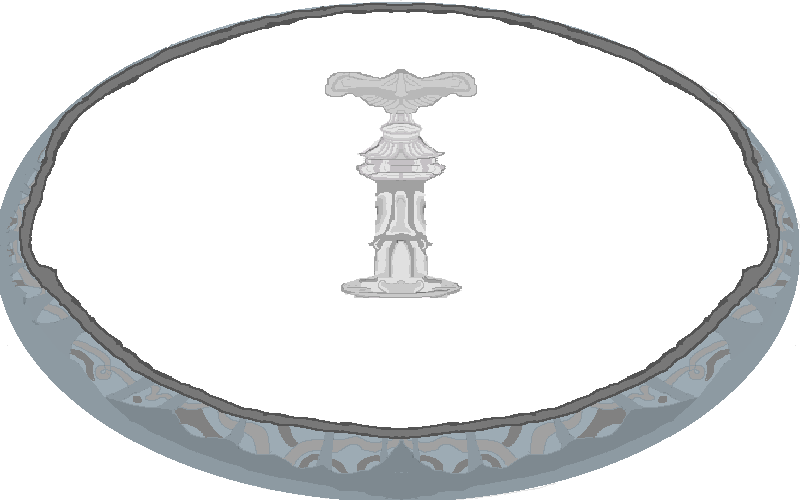
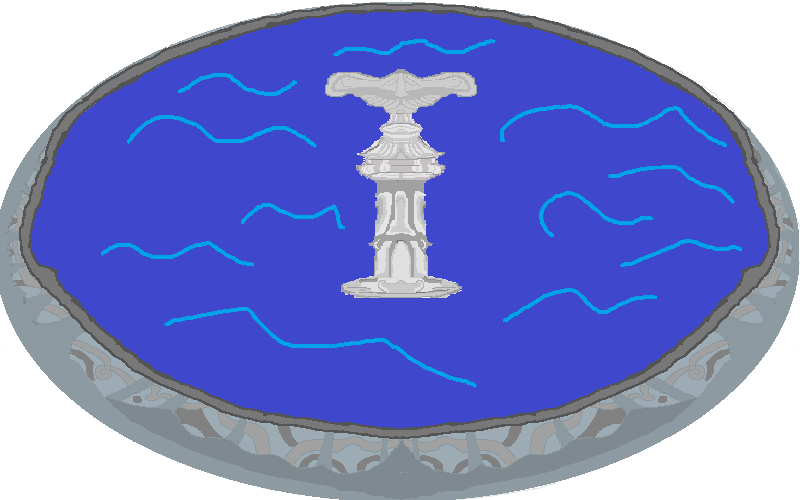
Přidána hackovací minihra a textura kašny na  náměstí

diff --git a/source/mesta/mapa/mista_inicializace.py b/source/mesta/mapa/mista_inicializace.py
@@ -55,6 +55,9 @@ def mesto1Init(okno, velikost_okna, global_data):
                "stanice.png",#23
                "namesti.png",#24
                "bankomat.png",#25
+               "Skola_Simon.png",#26
+               "Skola_Kubik.png",#27
+               "kasna.png",#28
 
                ]
 
@@ -62,6 +65,8 @@ def mesto1Init(okno, velikost_okna, global_data):
 #NAMESTI
     scaled_banka = pygame.transform.scale(textury[6], (380, 320))
     scaled_stanice = pygame.transform.scale(textury[23],(200,320))
+    scaled_kasna = pygame.transform.scale(textury[28],(330,206))
+    kasna_rect = scaled_kasna.get_rect()
     #textury_itemy = [pygame.image.load(f"textury\\itemy\\{textura}").convert() for textura in textury_itemy]
     scaled_namesti = pygame.transform.scale(textury[24],(2005,1725))
     sirka_namesti = scaled_namesti.get_width()
@@ -72,7 +77,7 @@ def mesto1Init(okno, velikost_okna, global_data):
     budovy = []
     #prvni horní řada domů z leva (0,0) - prvni dum v pořadí
     budovy.append(Budova(okno, 0, 0, 0, 0, textury[1]))
-    budovy.append(Budova(okno, 200, 0, 200, 320, scaled_stanice))#stanice
+    budovy.append(Budova(okno, 200, 0, 200, 320, scaled_stanice))#policejní stanice
     budovy.append(Budova(okno, 405, 0, textury_rect[22].width, textury_rect[22].height, textury[22]))#radnice
     #budovy.append(Budova(okno, 2*textury_rect[1].width, 0, textury_rect[3].width, textury_rect[3].height, textury[3]))
     #budovy.append(Budova(okno, 3*textury_rect[1].width, 0, textury_rect[4].width, textury_rect[4].height, textury[4]))
@@ -81,8 +86,8 @@ def mesto1Init(okno, velikost_okna, global_data):
     #####budovy.append(Budova(okno, 4*textury_rect[1].width, 0, textury_rect[4].width, textury_rect[4].height, textury[2]))
     #####budovy.append(Budova(okno, 5*textury_rect[1].width, 0, textury_rect[4].width, textury_rect[4].height, textury[3]))
     #druha horní řada domů po mezeře (1200, 0) - prvni dum v pořadí
-    budovy.append(Budova(okno, 6*textury_rect[1].width, 0, textury_rect[1].width, textury_rect[1].height, textury[1]))
-    budovy.append(Budova(okno, 7*textury_rect[1].width, 0, textury_rect[2].width, textury_rect[2].height, textury[2]))
+    budovy.append(Budova(okno, 6*textury_rect[1].width, 0, textury_rect[26].width, textury_rect[26].height, textury[26]))
+    #budovy.append(Budova(okno, 7*textury_rect[1].width, 0, textury_rect[2].width, textury_rect[2].height, textury[2]))
     budovy.append(Budova(okno, 8*textury_rect[1].width, 0, textury_rect[3].width, textury_rect[3].height, textury[3]))
     budovy.append(Budova(okno, 9*textury_rect[1].width, 0, textury_rect[4].width, textury_rect[4].height, textury[4]))
     #první dolní řada domů z leva (200, 1360) - prvni dum v pořadí
@@ -115,14 +120,16 @@ def mesto1Init(okno, velikost_okna, global_data):
     #silnice 
     #MODEL
     #budovy.append(Budova(okno, 0, 0, textury_rect[24].width, textury_rect[24].height, textury[24]))
-
+#BANKOMAT
     budovy.append(Budova(okno, 1730,237 , textury_rect[25].width, textury_rect[25].height, textury[25]))#bankomat
+    interakcni_zony.append(InterakcniZona(1730,237 + textury_rect[25].height,textury_rect[25].width, textury_rect[25].height,ddos, argumenty = [global_data]))
 #NAMESTI    
-    interakcni_zony.append(InterakcniZona(0,0,sirka_namesti, vyska_namesti, nic, textura = scaled_namesti))
+    interakcni_zony.append(InterakcniZona(0,-40,sirka_namesti, vyska_namesti, nic, textura = scaled_namesti))
 
     interakcni_zony.append(InterakcniZona(0,1640, 1920,80, novy_areal, argumenty=[global_data, 2,(1055, 0)])) # #1. lokace - prechod z mesta na parkoviste	
 
-
+#KAšNA
+    budovy.append(Budova(okno, 850,655,kasna_rect.width, kasna_rect.height, scaled_kasna))
 
     #budovy = [Budova(okno, sum([textury_rect[j].width for j in range(i)]), 0, textury_rect[i].width, textury_rect[i].height, textury[i]) for i in range(len(textury))]
     return budovy, interakcni_zony, velikost_mapy, [0, 0]
@@ -207,7 +214,7 @@ def mesto2Init(okno, velikost_okna, global_data):
     #interakcni_zony.append(InterakcniZona(200, 320, 0,0,nic, textura= textury[9]))
     #interakcni_zony.append(InterakcniZona(0,0, 1920,80, spusteni, argumenty=[global_data])) #smrt na silnici
 #BANKOMAT
-    interakcni_zony.append(InterakcniZona(1775,916,textury_rect[24].width, textury_rect[25].height,hacking, argumenty = [global_data]))
+    interakcni_zony.append(InterakcniZona(1775,2560 - 1645 + textury_rect[24].height,textury_rect[24].width, textury_rect[24].height,ddos, argumenty = [global_data]))
 #SMRT NA SILNICI
     interakcni_zony.append(InterakcniZona(0,0, 1645,10, novy_areal, argumenty=[global_data, 1, (970, 1565)])) #2. lokace - prechod z parkoviste do mesta
     interakcni_zony.append(InterakcniZona(0,1030, 1645,80, novy_areal, argumenty=[global_data, 3, (950, 0)])) #2. lokace - prechod do parku
@@ -280,13 +287,13 @@ def mesto3Init(okno, velikost_okna, global_data):
     interakcni_zony.append(InterakcniZona(160, 2980 - 2780, 0, 0, nic, textura=scaled_cesty))
     interakcni_zony.append(InterakcniZona(810, 2765 - 2780, 0, 0, nic, textura=textury[22]))#najezd
     ##stromy
-    ###prvni sloupec stromů
+    ###levy sloupec stromů
     mezera = 10
     for i in range(7):
         textura = textury[14]
         y = 2820 - 2780 + i * (textury_rect[14].height+ mezera)
         budovy.append(Budova(okno, 40, y,textury_rect[15].width,textury_rect[15].height, textura=textura))
-    ###druhy sloupec stromů
+    ###pravy sloupec stromů
     for i in range(7):
         textura = textury[15]
         y = 2820 - 2780 + i * (textury_rect[15].height+ mezera)
@@ -295,7 +302,7 @@ def mesto3Init(okno, velikost_okna, global_data):
     for i in range(15):
         textura = textury[14] if i % 2 == 0 else textury[15]
         x = 40 + i * (textury_rect[15].height+ mezera)
-        budovy.append(Budova(okno, x, 3730,textury_rect[15].width,textury_rect[15].height, textura=textura))
+        budovy.append(Budova(okno, x, 3730 - 2780,textury_rect[15].width,textury_rect[15].height, textura=textura))
     #### horní řada stromů - pt. 1
     for i in range(6):
         textura = textury[14] if i % 2 == 0 else textury[15]

diff --git a/source/mesta/mapa/main.py b/source/mesta/mapa/main.py
@@ -35,7 +35,7 @@ def main(global_data):
 
     hrac = Hrac(0 if global_data['hrac']['x'] == 0 else velikost_okna[0] // (1920 / global_data['hrac']['x']),
                 0 if global_data['hrac']['x'] == 0 else velikost_okna[1] // (1080 / global_data['hrac']['y']),
-                rozmery_hrace[0], rozmery_hrace[1], velikost_okna[0] // 192, velikost_okna[1] // 108, textury = textury_hrac) # vytvori postavu ve stredu obrazovky
+                rozmery_hrace[0], rozmery_hrace[1], 3, 3, textury = textury_hrac) # vytvori postavu ve stredu obrazovky
     # pozice hrace je levej horni roh obrazku
 
     hodiny = pygame.time.Clock() # vyrobi promenou pro casovani a pro limitovani fps

diff --git a/source/bankomat/Bankomat_obrazovka.py b/source/bankomat/Bankomat_obrazovka.py
@@ -1,12 +1,3 @@
-import sys
-from pathlib import Path
-
-parent_dir = Path(__file__).resolve().parent.parent
-sys.path.append(str(parent_dir))
-
-from master import main as masterFunc
-from master import convertFuncToStr as novyProgram
-
 import pygame
 
 def spustit_minihru(global_data):
@@ -113,5 +104,3 @@ def main(global_data):
 
     # pro otevreni okna "global_data['otevrena_okna'].append(novyProgram(funkce))"
 
-if __name__ == "__main__":
-    masterFunc(novyProgram(main))
